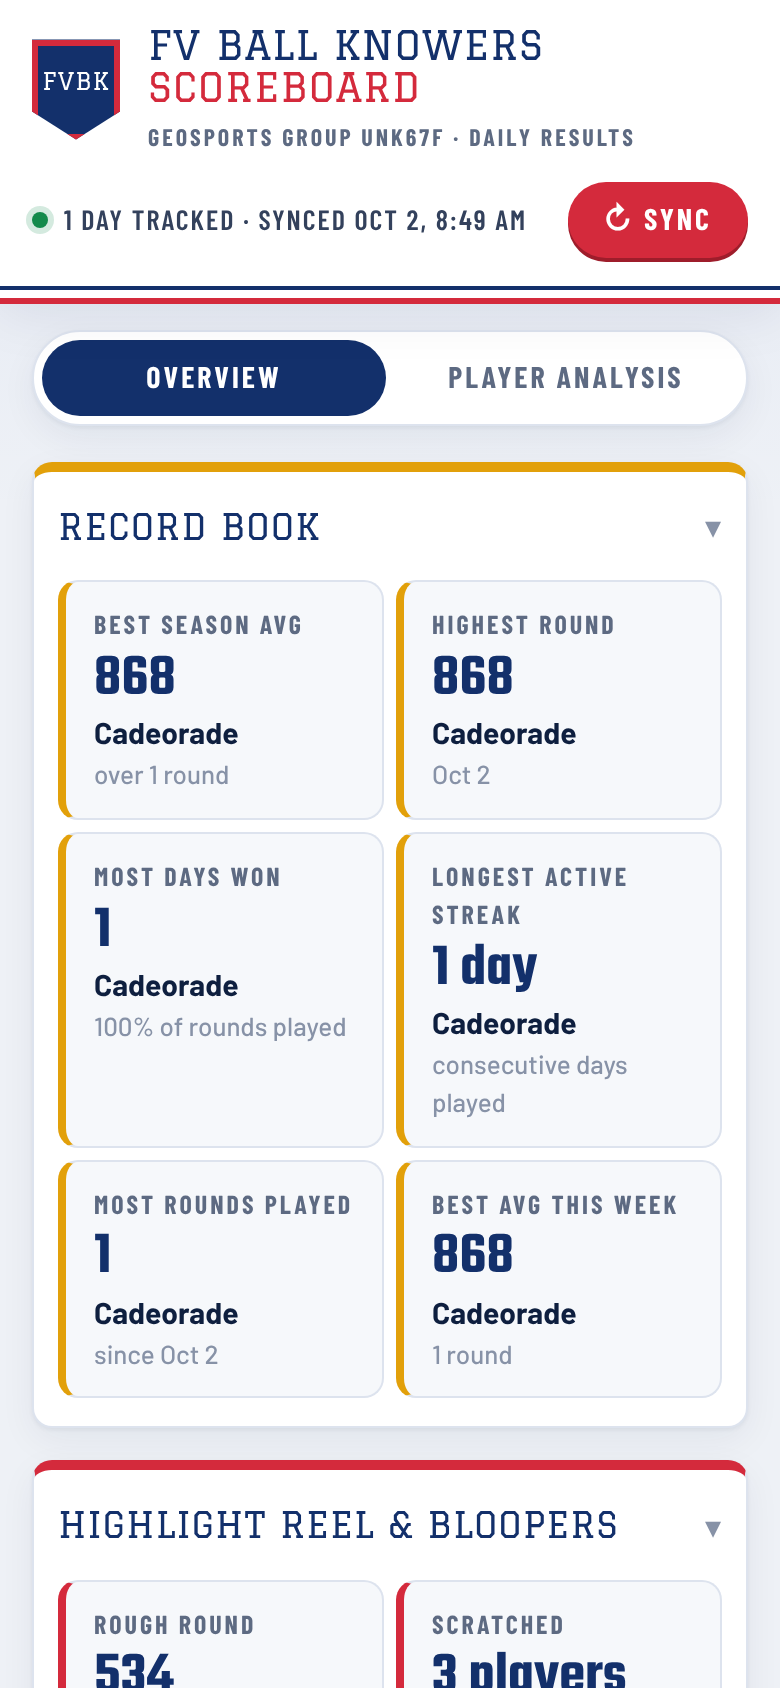
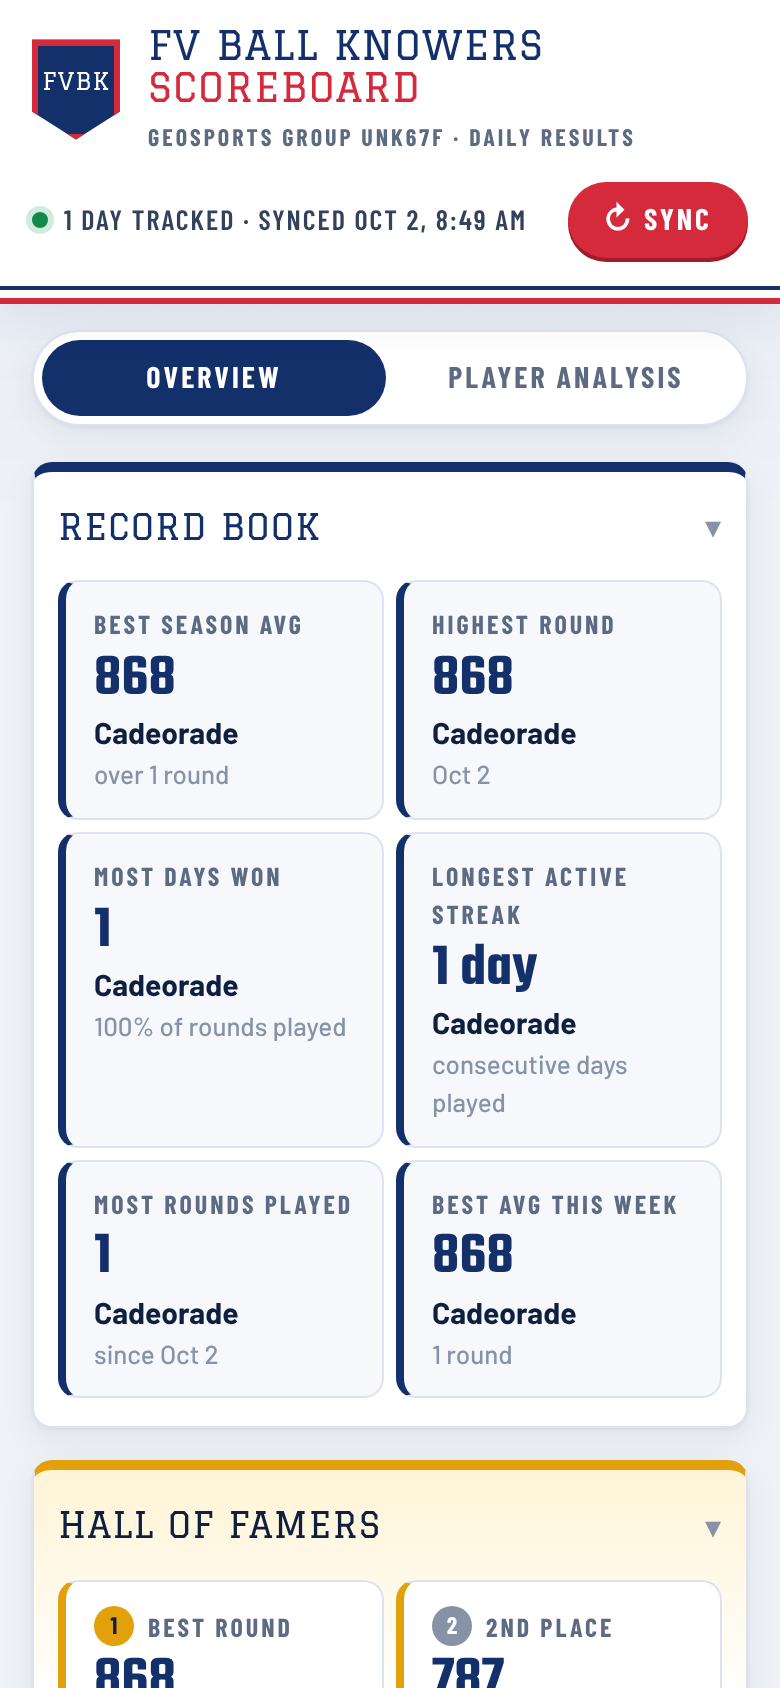
Add Hall of Famers and You're Benched! sections

diff --git a/index.html b/index.html
@@ -102,7 +102,17 @@
   .collapsible.collapsed .card-body { display: none; }
   .collapsible .card-body { margin-top: 14px; }
   .collapsible.collapsed { padding-block: 14px; }
-  .bests { border-top: 5px solid var(--gold); }
+  .bests { border-top: 5px solid var(--navy); }
+  .bests .item { border-left: 4px solid var(--navy); }
+  .hof { border-top: 5px solid var(--gold); background: linear-gradient(180deg, var(--gold-soft), var(--panel) 120px); }
+  .hof .item { border-left: 4px solid var(--gold); background: var(--panel); }
+  .hof .item .val { color: var(--navy); }
+  .bench { border-top: 5px solid var(--faint); background: linear-gradient(180deg, #eceff4, var(--panel) 120px); }
+  .bench .item { border-left: 4px solid var(--faint); background: var(--panel); }
+  .bench .item .val { color: var(--ink-2); }
+  .place { display: inline-grid; place-items: center; width: 20px; height: 20px; margin-right: 7px; border-radius: 50%; font-size: 12px; letter-spacing: 0; color: #fff; background: var(--faint); vertical-align: 1px; }
+  .hof .item:first-child .place { background: var(--gold); color: var(--ink); }
+  .bench .item:first-child .place { background: var(--red); }
   .bests > .card-toggle { color: var(--navy); }
   .oddities { border-top: 5px solid var(--red); }
   .oddities > .card-toggle { color: var(--navy); }
@@ -134,7 +144,6 @@
 
   .item-grid { display: grid; grid-template-columns: repeat(auto-fill, minmax(220px, 1fr)); gap: 10px; }
   .item { padding: 12px 14px; background: var(--panel-alt); border-color: var(--line); }
-  .bests .item { border-left: 4px solid var(--gold); }
   .oddities .item.trophy { border-left: 4px solid var(--win); }
   .oddities .item.shame { border-left: 4px solid var(--red); }
   .item .lbl { font-family: var(--font-cond); font-size: 13px; font-weight: 700; letter-spacing: 1.5px; color: var(--muted); text-transform: uppercase; }
@@ -242,10 +251,11 @@
 (function () {
   'use strict';
   const PALETTE = ['#c98a00', '#1f4fd1', '#d42a3c', '#138a4b', '#7c3aed', '#ea580c', '#db2777', '#0e9488'];
-  const S = { meta: null, days: [], tab: 'overview', period: 'week', players: new Set(), range: '30', focus: null, open: { bests: true, odd: true } };
+  const S = { meta: null, days: [], tab: 'overview', period: 'week', players: new Set(), range: '30', focus: null, open: { bests: true, hof: true, bench: true, odd: true } };
   const charts = {};
   const $ = (id) => document.getElementById(id);
   const esc = (s) => String(s ?? '').replace(/[&<>"']/g, (c) => ({ '&': '&amp;', '<': '&lt;', '>': '&gt;', '"': '&quot;', "'": '&#39;' }[c]));
+  const ordinal = (n) => n + (['th', 'st', 'nd', 'rd'][(n % 100 - 20) % 10] || ['th', 'st', 'nd', 'rd'][n % 100] || 'th');
   const pl = (n, w) => fmt(n) + ' ' + w + (n === 1 ? '' : 's');
   const fmt = (n, d = 0) => (n == null || isNaN(n)) ? '—' : Number(n).toLocaleString(undefined, { minimumFractionDigits: d, maximumFractionDigits: d });
   const sign = (n, d = 0) => (n == null || isNaN(n)) ? '—' : (n > 0 ? '+' : n < 0 ? '−' : '±') + fmt(Math.abs(n), d);
@@ -341,7 +351,6 @@
       close && ['trophy', 'Photo finish', close.margin === 0 ? 'Tie' : '+' + fmt(close.margin), close.winners.map(name).join(' & '), close.margin === 0 ? `tied for the win ${fmtDate(close.date)}` : `edged it ${fmtDate(close.date)}`],
       hot && hot.delta > 0 && ['trophy', 'Hot hand', sign(hot.delta), esc(hot.p.name), `last 7 days (${pl(hot.n, 'round')}) vs season avg`],
       wr && ['trophy', 'The closer', fmt(100 * wr.alltime.won / wr.alltime.games, 1) + '%', esc(wr.name), `${pl(wr.alltime.won, 'win')} in ${pl(wr.alltime.games, 'round')}`],
-      low && ['shame', 'Rough round', fmt(low.score), name(low.id), `lowest group score, ${fmtDate(low.date)}`],
       swing && ['shame', 'Wildest swing', sign(swing.d), name(swing.id), `day-over-day, ${fmtDate(swing.date)}`],
       cold && cold.delta < 0 && ['shame', 'Ice cold', sign(cold.delta), esc(cold.p.name), `last 7 days (${pl(cold.n, 'round')}) vs season avg`],
       mia.length && ['shame', 'Scratched', mia.length + (mia.length === 1 ? ' player' : ' players'), mia.map((p) => esc(p.name)).join(', '), 'no rounds this week'],
@@ -354,11 +363,26 @@
       members.map((p) => `<button type="button" class="chip${S.players.has(p.userId) ? ' active' : ''}" data-player="${esc(p.userId)}"><span class="dot" style="background:${p.color}"></span>${esc(p.name)}<span class="n">×${fmt(p.alltime?.games)}</span></button>`).join('');
 
     const firstFull = complete[0]?.date;
+    // Hall of Famers / You're Benched!: best and worst single rounds. Each list takes at most half
+    // the season's rounds (max 5), so the same round never shows up on both lists.
+    const rounds = [];
+    M.days.forEach((d) => Object.entries(d.scores).forEach(([id, sc]) => { if (byId[id]) rounds.push({ id, score: sc, date: d.date }); }));
+    const nList = Math.min(5, Math.floor(rounds.length / 2));
+    const top = [...rounds].sort((a, b) => b.score - a.score || (a.date < b.date ? -1 : 1)).slice(0, nList);
+    const bottom = [...rounds].sort((a, b) => a.score - b.score || (a.date < b.date ? -1 : 1)).slice(0, nList);
+    const roundCards = (list) => list.map((r, i) => `<div class="item"><div class="lbl"><span class="place">${i + 1}</span>${i === 0 ? (list === top ? 'Best round' : 'Worst round') : ordinal(i + 1) + ' place'}</div><div class="val">${fmt(r.score)}</div><div class="who">${name(r.id)}</div><div class="s">${esc(fmtDate(r.date, { weekday: 'short', month: 'short', day: 'numeric' }))}</div></div>`).join('');
+    const listSection = (key, cls, title, list, blurb) => `
+      <section class="card collapsible ${cls}${S.open[key] ? '' : ' collapsed'}" data-col="${key}">
+        <button type="button" class="card-toggle" aria-expanded="${S.open[key]}">${title}</button>
+        <div class="card-body">${list.length ? `<div class="item-grid">${roundCards(list)}</div><p class="sub" style="margin:12px 0 0">${blurb}</p>` : '<p class="sub" style="margin:0">Fills in once the season has a few rounds.</p>'}</div>
+      </section>`;
     return `
       <section class="card collapsible bests${S.open.bests ? '' : ' collapsed'}" data-col="bests">
         <button type="button" class="card-toggle" aria-expanded="${S.open.bests}">Record Book</button>
         <div class="card-body"><div class="item-grid">${bests.map(([l, v, w, s]) => `<div class="item"><div class="lbl">${l}</div><div class="val">${v}</div><div class="who">${esc(w)}</div><div class="s">${esc(s)}</div></div>`).join('')}</div></div>
       </section>
+      ${listSection('hof', 'hof', 'Hall of Famers', top, `The season’s ${nList === 1 ? 'best single round' : nList + ' best single rounds'}.`)}
+      ${listSection('bench', 'bench', 'You’re Benched!', bottom, `The season’s ${nList === 1 ? 'worst single round' : nList + ' worst single rounds'}. Tied scores are listed by date, earliest first.`)}
       <section class="card collapsible oddities${S.open.odd ? '' : ' collapsed'}" data-col="odd">
         <button type="button" class="card-toggle" aria-expanded="${S.open.odd}">Highlight Reel &amp; Bloopers</button>
         <div class="card-body"><div class="item-grid">${odd.map(([k, l, v, w, s]) => `<div class="item ${k}"><div class="lbl">${l}</div><div class="val">${v}</div><div class="who">${w}</div><div class="s">${esc(s)}</div></div>`).join('')}</div>

diff --git a/README.md b/README.md
@@ -10,6 +10,7 @@ A live scoreboard for my friends' daily [GeoSports](https://geosports.app) games
 
 **Overview tab**
 - Record Book: best season average, highest round, most days won, longest streak, most rounds played
+- Hall of Famers and You're Benched!: the season's best and worst single rounds
 - Highlight Reel & Bloopers: biggest blowout, photo finish, hot hand, ice cold, wildest swing, players who skipped the week
 - Season totals for the whole group
 - Leaderboard for today, this week, this month and the season, ranked by average like GeoSports does, with a 7-day trend line per player
